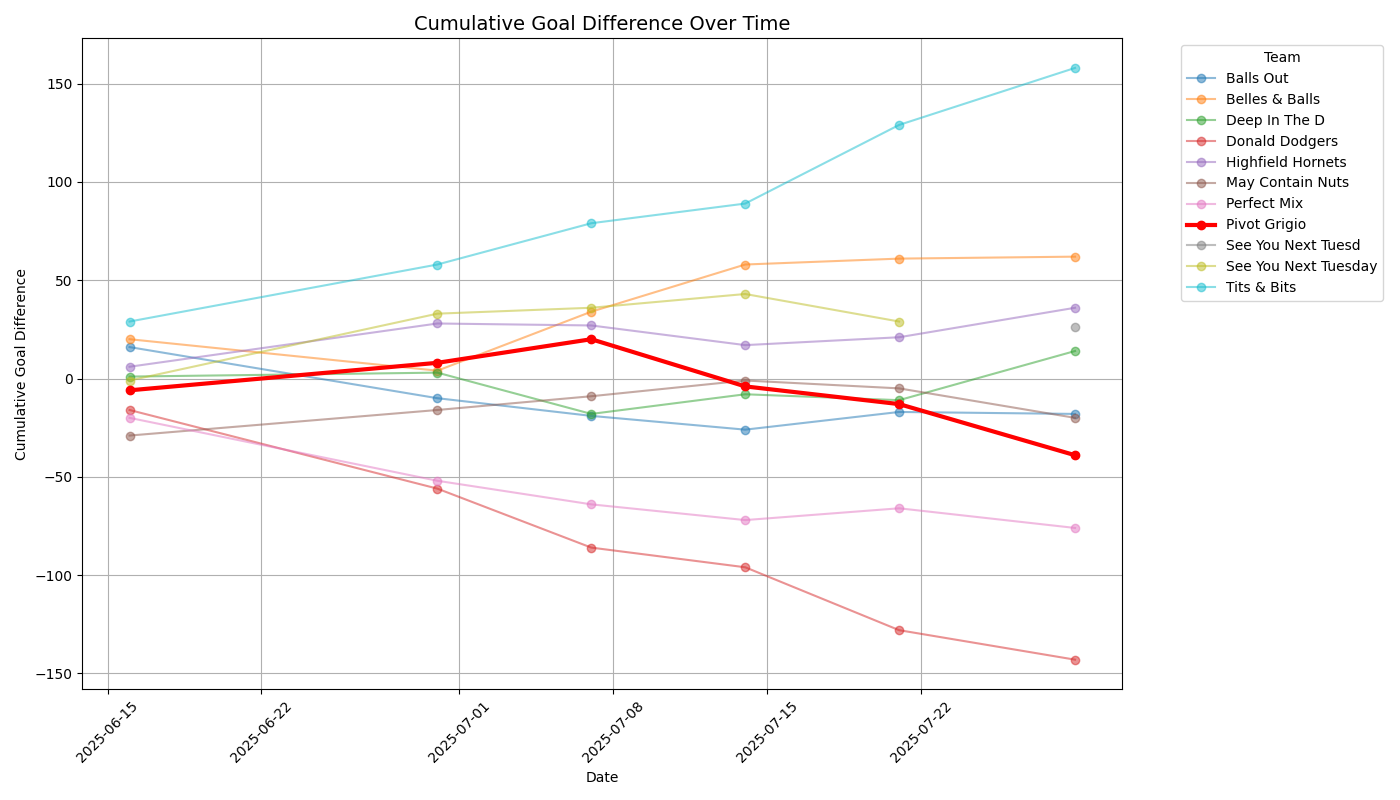
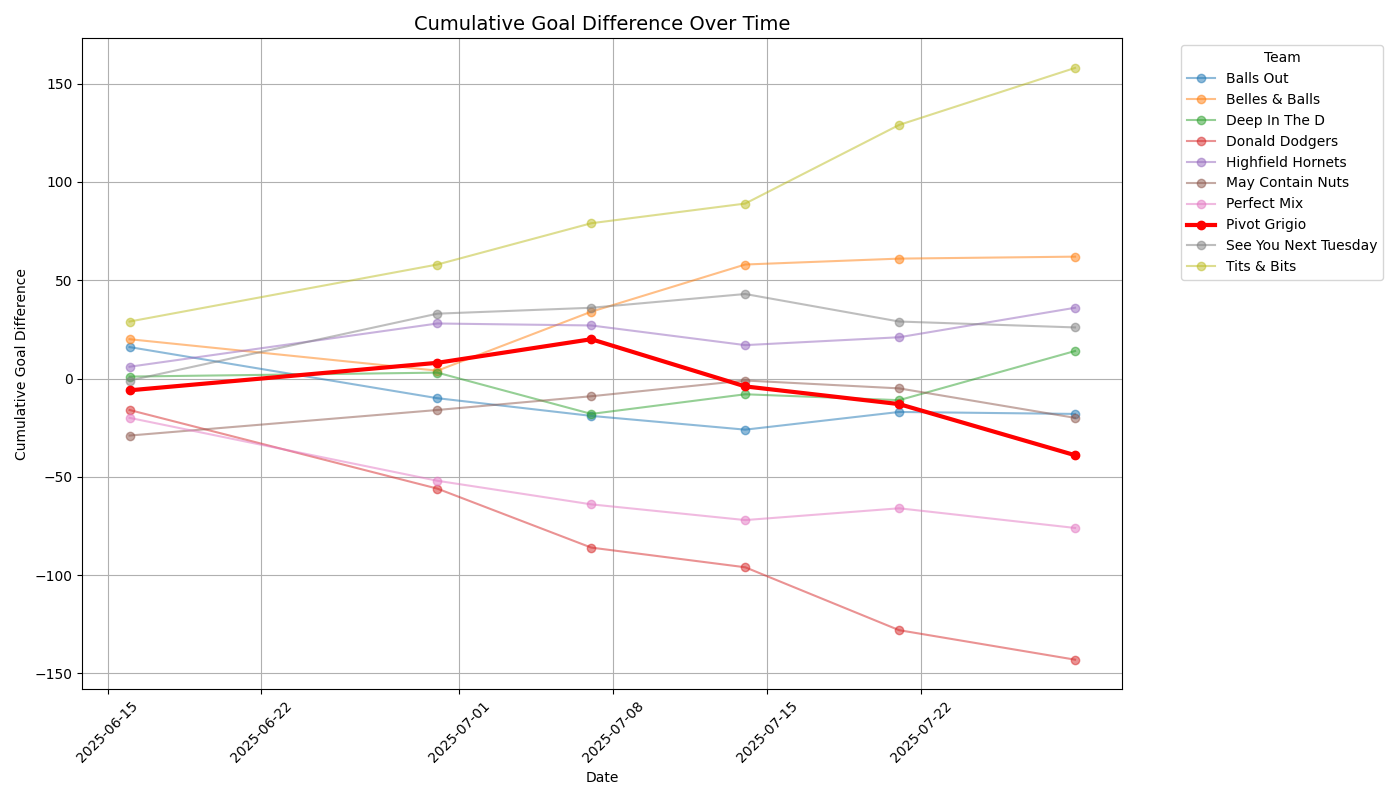
Fix SUNT spelling

diff --git a/league_data.py b/league_data.py
@@ -108,7 +108,7 @@ def get_all_league_data() -> pd.DataFrame:
     # New data from the provided image (29/07/2025)
     data6 = {
         'Position': [1, 2, 3, 4, 5, 6, 7, 8, 9, 10],
-        'Team': ['Tits & Bits', 'Highfield Hornets', 'Belles & Balls', 'See You Next Tuesd',
+        'Team': ['Tits & Bits', 'Highfield Hornets', 'Belles & Balls', 'See You Next Tuesday',
                  'Deep In The D', 'May Contain Nuts', 'Balls Out', 'Pivot Grigio',
                  'Perfect Mix', 'Donald Dodgers'],
         'Played': [8, 8, 8, 8, 8, 8, 8, 8, 8, 8],
